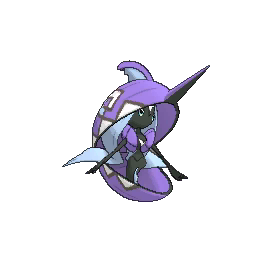
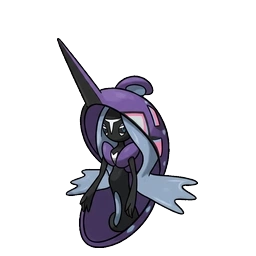
카푸느지느 추가

Changed region(s): [[0.2188, 0.125, 0.8125, 0.9688]]

diff --git a/src/skill/PokemonSkillList.js b/src/skill/PokemonSkillList.js
@@ -250,7 +250,8 @@ export const POKEMON_SKILLS = {
   "0730": ["물거품아리아", "문포스", "사이코쇼크", "에너지볼", "하이드로펌프", "방어", "대타출동", "사이코키네시스", "앵콜", "멸망의노래", "하이드로캐논", "아쿠아제트", "퀵턴", "드레인키스", "냉동빔", "눈보라", "얼다바람", "파도타기", "섀도볼", "매지컬샤인", "하이퍼보이스", "명상", "빛의장막", "리플렉터", "어시스트파워", "애교부리기", "흑안개", "아쿠아브레이크", "치근거리기", "맹독", "잠꼬대"],
   "0752": ["아쿠아브레이크", "흡혈", "끈적끈적네트", "미러코트", "도발", "맹독", "방어", "대타출동", "덤벼들기", "폭포오르기", "하이드로펌프", "파도타기", "열탕", "냉동빔", "눈보라", "얼다바람", "기가드레인", "문포스", "깨물어부수기", "독찌르기", "시저크로스", "철벽", "개척하기", "잠꼬대"],
   "0778": ["치근거리기", "섀도크루", "야습", "칼춤", "도발", "트릭룸", "전기자석파", "방어", "대타출동", "드레인펀치", "고스트다이브", "도깨비불", "저주", "트릭", "아픔나누기", "길동무", "우드해머", "시저크로스", "흡혈", "섀도볼", "매지컬샤인", "병상첨병", "악의파동", "기습", "사이코키네시스", "10만볼트", "번개", "기가드레인", "애교부리기", "빛의장막", "잠꼬대"],
-  "0785": ["10만볼트", "볼트체인지", "매지컬샤인", "유턴", "도발", "날개쉬기", "풀묶기", "명상", "방어", "대타출동", "리플렉터", "빛의장막", "번개", "전기자석파", "브레이브버드", "와일드볼트", "번개펀치", "아이언헤드", "방전", "괴전파", "고속이동", "안개제거", "울부짖기", "맹독", "잠꼬대", "파괴광선", "기가임팩트"],
+  "0785": ["10만볼트", "볼트체인지", "매지컬샤인", "유턴", "도발", "날개쉬기", "풀묶기", "명상", "방어", "대타출동", "리플렉터", "빛의장막", "번개", "전기자석파", "브레이브버드", "와일드볼트", "번개펀치", "아이언헤드", "방전", "괴전파", "고속이동", "안개제거", "울부짖기", "맹독", "잠꼬대", "파괴광선", "기가임팩트", "자연의분노"],
+  "0788": ["문포스", "파도타기", "명상", "냉동빔", "하이드로펌프", "열탕", "도발", "방어", "대타출동", "흑안개", "빛의장막", "리플렉터", "매지컬샤인", "섀도볼", "풀묶기", "얼다바람", "탁쳐서떨구기", "눈보라", "애교부리기", "아쿠아제트", "폭포오르기", "치근거리기", "아이언헤드", "맹독", "잠꼬대", "파괴광선", "기가임팩트", "자연의분노"],
   "0793": ["오물웨이브", "파워젬", "10만볼트", "풀묶기", "스텔스록", "독압정", "전기자석파", "방어", "대타출동", "사이코키네시스", "오물폭탄", "메테오빔", "사이코쇼크", "번개", "매지컬샤인", "클리어스모그", "병상첨병", "미러코트", "빛의장막", "리플렉터", "트릭룸", "아픔나누기", "독찌르기", "더스트슈트", "아이언헤드", "탁쳐서떨구기", "스톤샤워", "울부짖기", "맹독", "잠꼬대"],
   "0795": ["무릎차기", "유턴", "냉동빔", "벌레의야단법석", "기합구슬", "트리플악셀", "방어", "대타출동", "인파이트", "독찌르기", "눈보라", "얼다바람", "덤벼들기", "지옥찌르기", "드릴라이너", "깨트리다", "로킥", "페인트", "도발", "칼춤", "나비춤", "고속이동", "고속스핀", "맹독", "잠꼬대", "기가임팩트", "파괴광선"],
   "0797": ["헤비봄버", "화염방사", "씨뿌리기", "에어슬래시", "지진", "바디프레스", "대타출동", "방어", "기가드레인", "불대문자", "메테오빔", "러스트캐논", "에너지볼", "아이언헤드", "스톤샤워", "스톤에지", "이판사판태클", "엄청난힘", "씨폭탄", "철벽", "바디퍼지", "니트로차지", "대폭발", "맹독", "잠꼬대", "파괴광선", "기가임팩트"],

diff --git a/src/entity/Pokemon/SamplePokemon.js b/src/entity/Pokemon/SamplePokemon.js
@@ -199,6 +199,9 @@ new PokemonTemplate("카푸꼬꼬꼭 (벽깔이)", "0785", "5V0A", "HS252", "spe
 new PokemonTemplate("카푸꼬꼬꼭 (특수)", "0785", "5V0A", "CS252", "speed", "atk",
   "10만볼트", "볼트체인지", "매지컬샤인", "풀묶기", "생명의구슬", "일렉트릭메이커", "특수어태커",),
 
+new PokemonTemplate("카푸느지느", "0788", "5V0A", "HC252", "catk", "atk",
+  "파도타기", "문포스", "명상", "냉동빔", "먹다남은음식", "미스트메이커", "특수딜탱", "미스트메이커로 상태이상을 방지하고 명상으로 내구와 특공을 올려 공격하는 특수딜탱입니다."),
+
 new PokemonTemplate("텅비드", "0793", "5V0A", "CS252", "speed", "atk",
   "메테오빔", "오물웨이브", "풀묶기", "10만볼트", "파워풀허브", "비스트부스트", "특수어태커", "메테오빔으로 특공을 올리고 각종 특수기로 공격합니다."),
 
@@ -335,7 +338,13 @@ new PokemonTemplate("브리두라스", "1018", "5V0A", "HC252", "catk", "atk",
       this.items.find(
         (item) =>
           item.id.startsWith("메가") && item.id.replace(/^메가/, "") === searchId
-      ) || null
+      ) ||
+      this.items.find(
+        (item) =>
+          typeof searchId === "string" &&
+          item.id.replace(/\s*\(.*?\)/, "") === searchId.replace(/\s*\(.*?\)/, "")
+      ) ||
+      null
     );
   }
   getItemById(id) {

diff --git a/src/entity/Skill/skillList/catk.js b/src/entity/Skill/skillList/catk.js
@@ -10,6 +10,7 @@ export const catkSkills = [
   new Skill("물거품아리아", "물", 90, 100, 10, 0, "catk", null, "노래 부르는 것으로 많은 벌룬을 방출한다. 기술에 맞으면 화상이 낫는다.", [{ name: "화상치료" }], { sound: true }),
   new Skill("마그마스톰", "불꽃", 100, 75, 5, 0, "catk", null, "불꽃 속에 4~5턴 동안 상대를 가두어 공격한다. 상대는 교체할 수 없고 매 턴 HP의 ⅛의 피해를 입는다.", [{ name: "구속", skillName: "마그마스톰", text: "마그마의 소용돌이에 갇혔다!" }], {}),
   new Skill("카타스트로피", "악", "-", 90, 10, 0, "catk", null, "파멸적인 재앙에 휩쓸리게 하여 상대의 HP를 절반으로 만든다.", [], { noText: true }),
+  new Skill("자연의분노", "페어리", "-", 90, 10, 0, "catk", null, "자연의 분노를 상대에게 부딪쳐 상대의 HP를 절반으로 만든다.", [], { noText: true }),
   new Skill("어시스트파워", "에스퍼", 20, 100, 10, 0, "catk", null, "자신의 능력이 올라가 있는 만큼 위력이 오른다.", [], {}),
   new Skill("일렉트릭볼", "전기", "-", 100, 10, 0, "catk", null, "자신이 상대보다 빠를수록 위력이 올라간다.", [], {}),
   new Skill("블러드문", "노말", 140, 100, 5, 0, "catk", null, "이 기술은 2회 연속으로 사용할 수 없다.", [], { noDouble: true }),

diff --git a/src/function/ailment.js b/src/function/ailment.js
@@ -13,6 +13,11 @@ export function ailmentAbleCheck(battle, ailment, pokemon) {
     return false;
   }
 
+  // 미스트필드 상태이면 땅에 붙어있는 포켓몬은 상태이상에 걸리지 않는다
+  if (battle?.field?.terrain?.isMistyField && !pokemon.isFlying(battle)) {
+    return false;
+  }
+
   let t1 = pokemon.type1;
   let t2 = pokemon.type2;
 
@@ -64,7 +69,7 @@ export function ailmentAbleCheck(battle, ailment, pokemon) {
 
   if (isSleep) {
     // 추가 조건: 일렉트릭필드면 자지 않는다
-    // 지금 잠듦 하품밖에 없어서 isFlying의 isSkill에 true 해놓음[부유-틀깨기 적용여부]
+    // 지금 잠듦 기술 부가효과랑 하품밖에 없어서 isFlying의 2번쨰 인자 isSkill에 true 해놓음[부유-틀깨기 적용여부]
     if (battle?.field?.terrain?.isElectricField && !pokemon.isFlying(battle, true)) {
       return false;
     }
@@ -83,6 +88,7 @@ export const applyAilment = (ailment, battle, get, enqueue, printTextIfFail, tex
     if (pokemon.tempStatus.confuse !== null) return;
     // 기절 체크
     if (faintCheck(pokemon)) return;
+    if (battle?.field?.terrain?.isMistyField && (!pokemon.isFlying || !pokemon.isFlying(battle, true))) return;
 
     // 1 ~ 3턴
     pokemon.tempStatus.confuse = Math.floor(Math.random() * 3) + 1;

diff --git a/src/entity/Ability.js b/src/entity/Ability.js
@@ -17,6 +17,7 @@ export const abilObject = {
   불굴의방패: { text: "등장했을 때 방어가 1랭크 올라간다." },
   그래스메이커: { text: "전투에 나오면 지형을 그래스필드로 만든다." },
   일렉트릭메이커: { text: "전투에 나오면 지형을 일렉트릭필드로 만든다." },
+  미스트메이커: { text: "전투에 나오면 지형을 미스트필드로 만든다." },
   잔비: { text: "전투에 나오면 날씨를 5턴 간 비로 바꾼다." },
   가뭄: { text: "전투에 나오면 날씨를 5턴 간 쾌청으로 바꾼다." },
   진홍빛고동: {
@@ -255,6 +256,7 @@ export const applyAbilityEffects = (bt, atks, enqueue, trace) => {
   const terrainAbilities = {
     그래스메이커: { terrainType: "그래스필드", text: "발밑에 풀이 무성해졌다!" },
     일렉트릭메이커: { terrainType: "일렉트릭필드", text: "발밑에 전기가 떠돌기 시작했다!" },
+    미스트메이커: { terrainType: "미스트필드", text: "발밑이 안개로 자욱해졌다!" },
   };
   Object.entries(terrainAbilities).forEach(([abil, { terrainType, text }]) => {
     if (atkAbil === abil) {

diff --git a/src/entity/Pokemon/PokemonData.js b/src/entity/Pokemon/PokemonData.js
@@ -122,6 +122,7 @@ new Pokemon("0730", "0730", "누리레느", 530, 80, 74, 74, 126, 116, 60, "물"
 new Pokemon("0752", "0752", "깨비물거미", 454, 68, 70, 92, 50, 132, 42, "물", "벌레", ["수포","저수"]),
 new Pokemon("0778", "0778", "따라큐", 476, 55, 90, 80, 50, 105, 96, "고스트", "페어리", ["탈"]),
 new Pokemon("0785", "0785", "카푸꼬꼬꼭", 570,70, 115, 85, 95, 75, 130, "전기", "페어리", ["일렉트릭메이커","텔레파시"]),
+new Pokemon("0788", "0788", "카푸느지느", 570, 70, 75, 115, 95, 130, 85, "물", "페어리", ["미스트메이커", "텔레파시"]),
 new Pokemon("0793", "0793", "텅비드", 570, 109, 53, 47, 127, 131, 103, "바위", "독", ["비스트부스트"]),
 new Pokemon("0795", "0795", "페로코체", 570,71, 137, 37, 137, 37, 151, "벌레", "격투", ["비스트부스트"]),
 new Pokemon("0797", "0797", "철화구야", 570, 97, 101, 103, 107, 101, 61, "강철", "비행", ["비스트부스트"]),

diff --git a/src/entity/Field/Terrain.js b/src/entity/Field/Terrain.js
@@ -10,12 +10,17 @@ export class Terrain {
 
   get isGrassField() {
     return this.#type === "그래스필드";
-    // 턴 종료 회복, 그래스슬라이더 우선도
+    // 턴 종료시 회복, 그래스슬라이더 우선도
   }
 
   get isElectricField() {
     return this.#type === "일렉트릭필드";
-    // 하드론엔진, 잠듦 방지
+    // 하드론엔진, 쿼크차지, 잠듦 방지
+  }
+
+  get isMistyField() {
+    return this.#type === "미스트필드";
+    // 상태이상 방지, 드래곤 대미지 반감
   }
 
   #setTerrain(terrainType, turnRemain, enqueue, battle, terrainText) {
@@ -81,6 +86,7 @@ export class Terrain {
       const endTextMap = {
         그래스필드: "발밑의 풀이 사라졌다!",
         일렉트릭필드: "발밑의 전기가 사라졌다!",
+        미스트필드: "발밑의 안개가 사라졌다!",
       };
       text = endTextMap[endedType];
     }

diff --git a/src/entity/Pokemon/PokemonInstance.js b/src/entity/Pokemon/PokemonInstance.js
@@ -191,9 +191,13 @@ class PokemonInstance {
 
   // 떠있음 여부 체크
   // 그래스필드 회복(terrian.js), 필드 데미지 보정 (damageCalculate.js)
+  // 미스트필드 상태이상 방지 (ailment.js)
   // 일렉트릭필드 잠듦 가능여부(ailment.js), 일렉트릭필드 하품 가능 여부(skillEffect.js),
-  // 압정, 독압정, 끈적끈적네트(field.js)에서 사용
+  // 압정, 독압정, 끈적끈적네트(field.js), 교체시 장판 체크 (npc/easy.js),
+  // 땅타입 상성 계산(typeEffectCalculate.js)에서 사용
   isFlying(battle, isSkill) {
+    // isSkill: 상대방의 기술에 의한것인지 여부. 특성 틀깨기로 인한 부유 차단을 위해 사용
+    // 땅타입 상성계산, 장판기, 하품 및 상태이상 가능 여부 체크할때 true
     const pokemon = this;
     const enemy = pokemon.team === "player" ? battle.npc : battle.player;
 

diff --git a/src/util/damageCalculate.js b/src/util/damageCalculate.js
@@ -37,7 +37,7 @@ export const damageCalculate = (battle, obj, ai) => {
     //일격기
     return defensePokemon.origin.hp;
   }
-  if (skill.name === "카타스트로피") {
+  if (skill.name === "카타스트로피" || skill.name === "자연의분노") {
     // 현재 체력의 절반을 깎는 스킬
     return defensePokemon.hp / 2;
   }
@@ -345,6 +345,12 @@ export const damageCalculate = (battle, obj, ai) => {
     if (field === "그래스필드" && skill.name === "지진") {
       damage *= 0.5; //비행여부 상관없이 적용됨
       attackPokemon.log.damage1 += " * 0.5 (그래스필드+지진)";
+    }
+
+    const isDefFlying = defensePokemon.isFlying(battle);
+    if (field === "미스트필드" && skill.type === "드래곤" && !isDefFlying) {
+      damage *= 0.5;
+      attackPokemon.log.damage1 += " * 0.5 (미스트필드+드래곤)";
     }
   }
 
